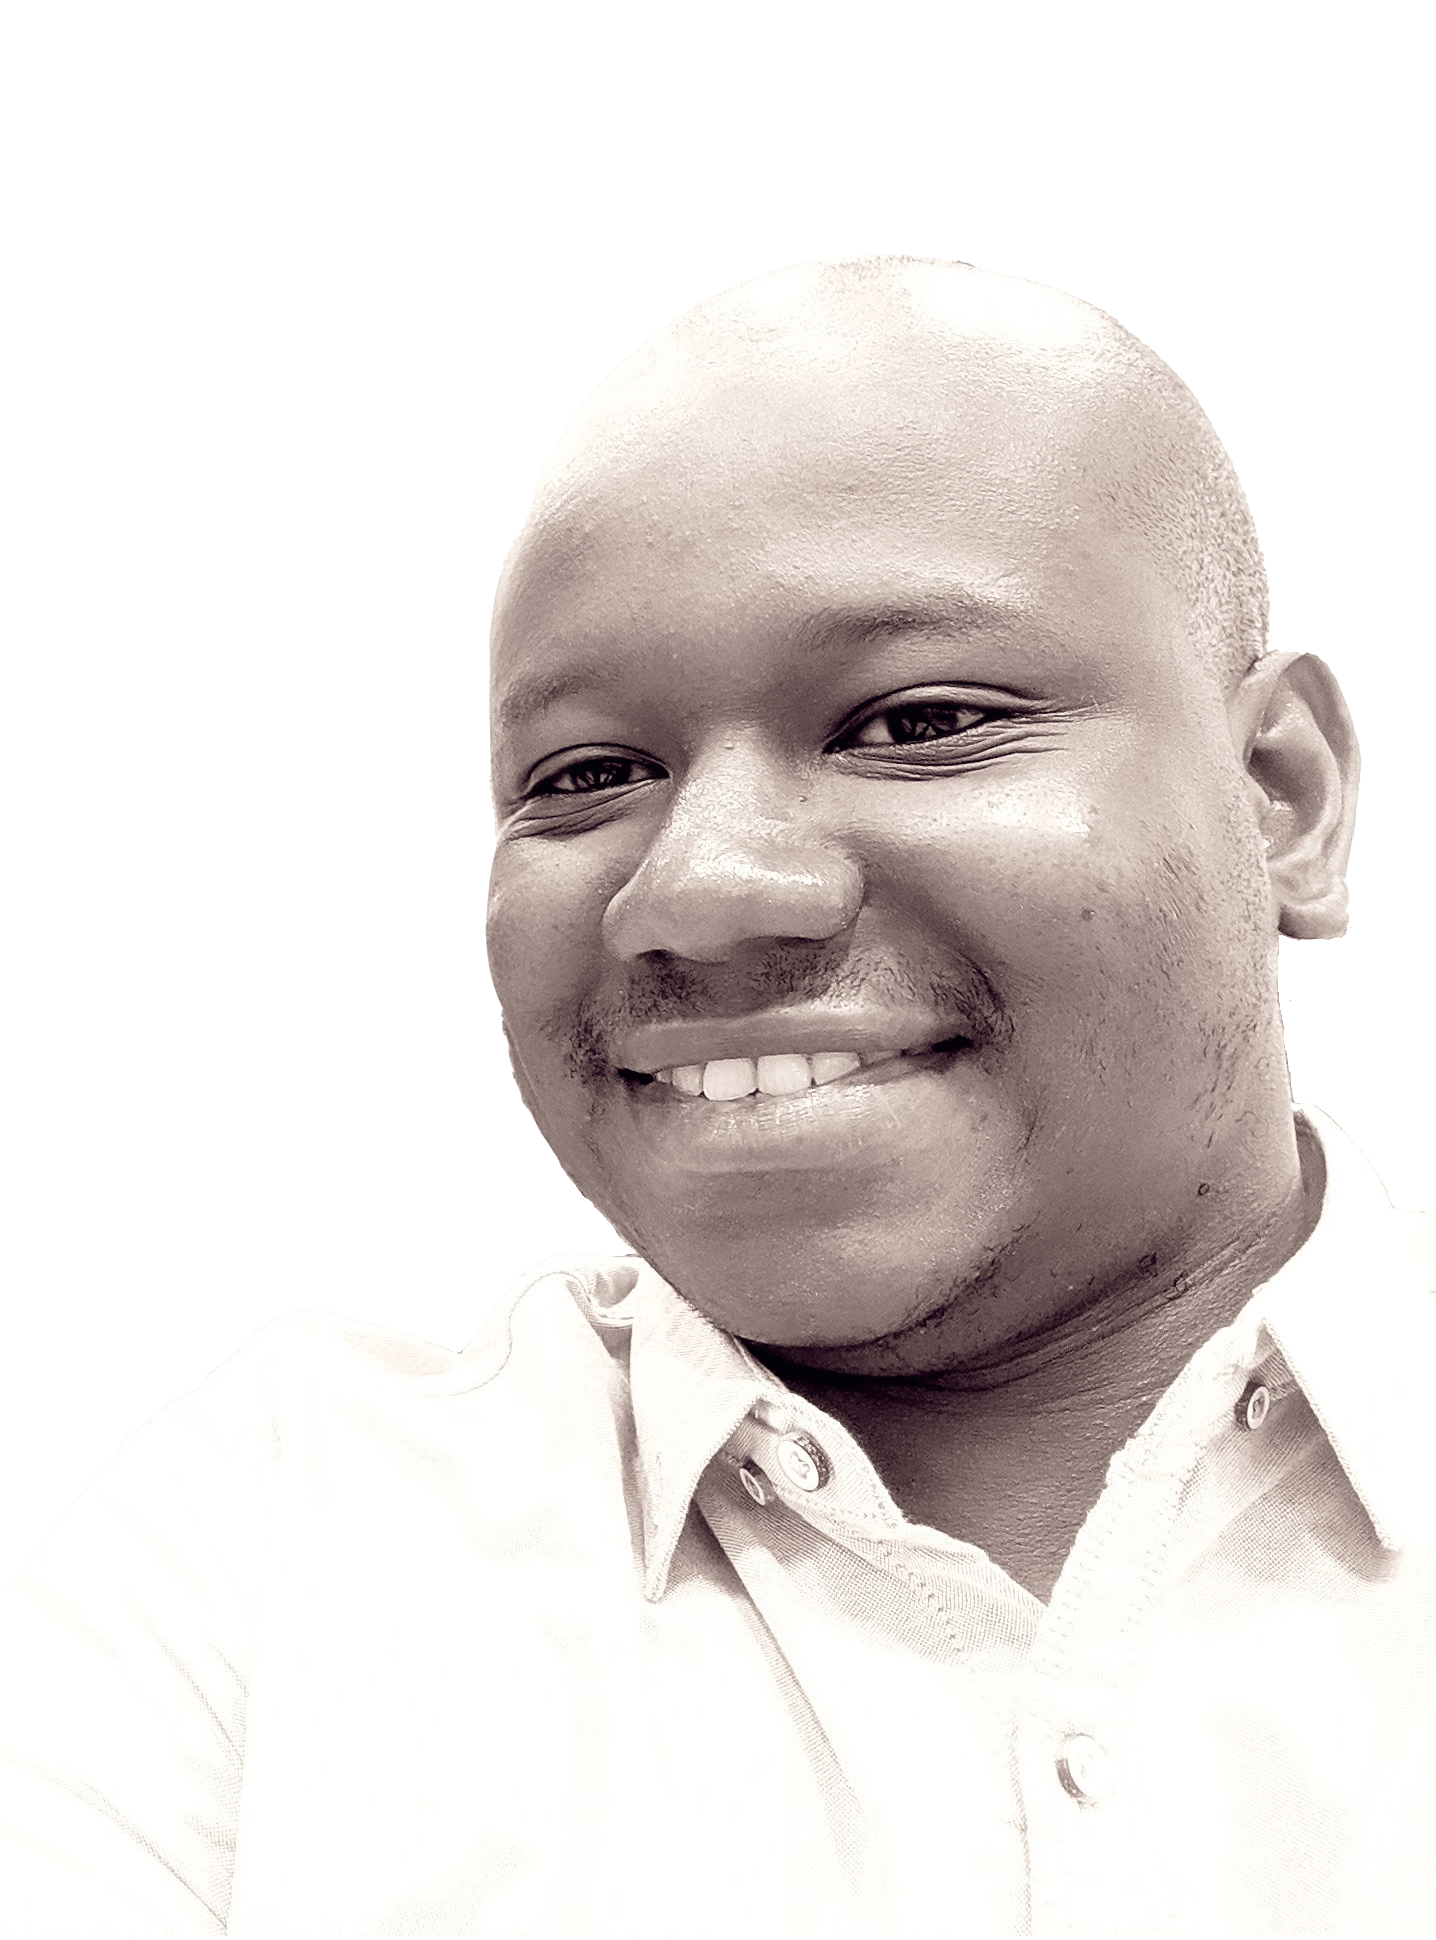
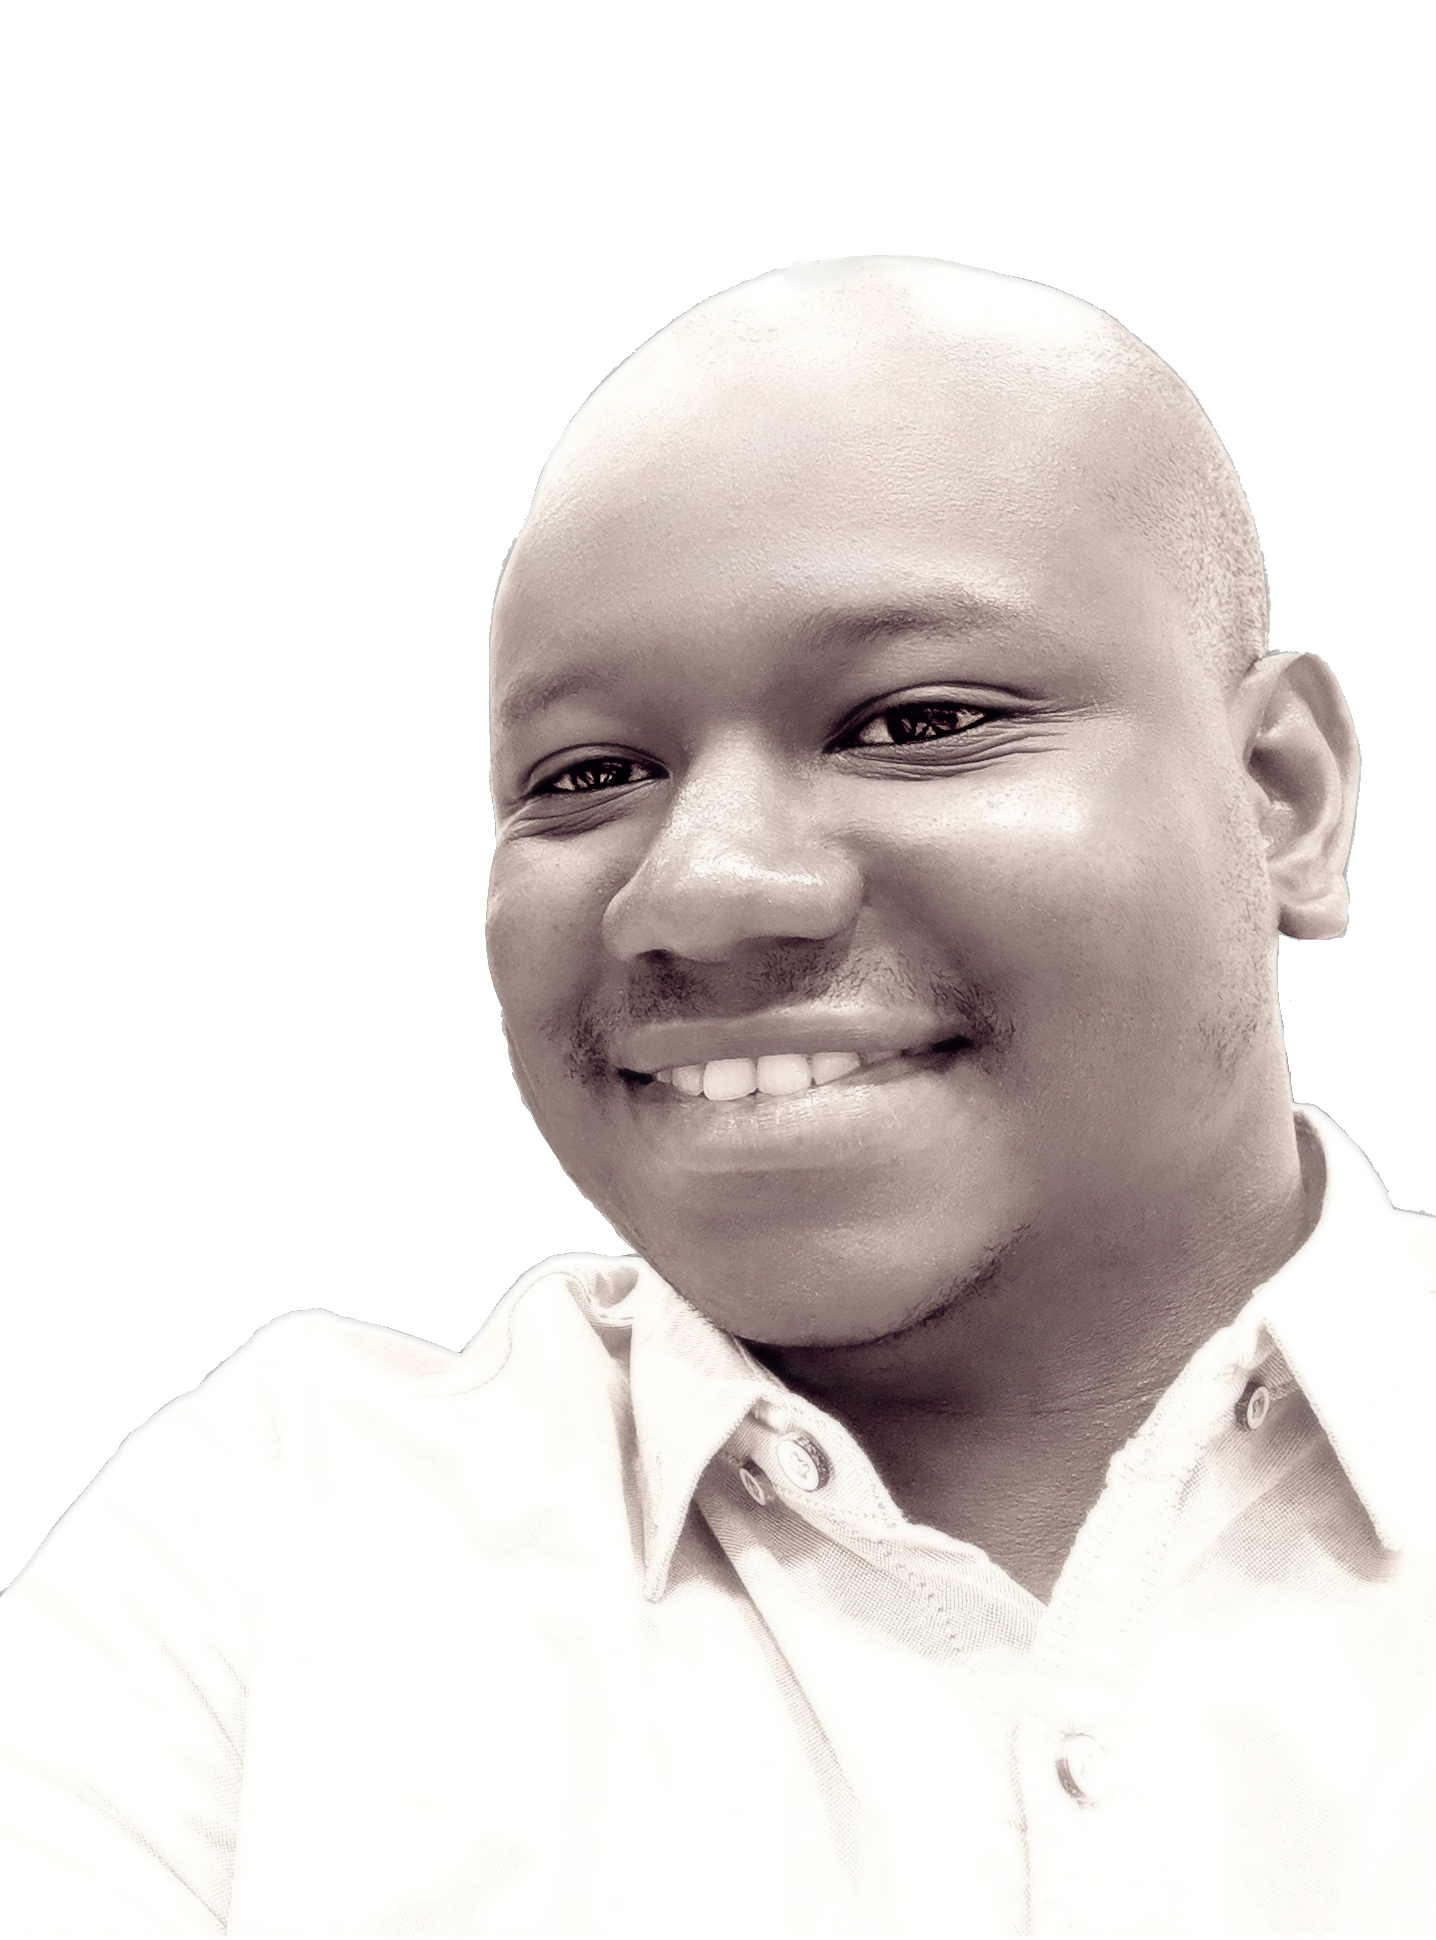
retoque de la imagen de giro

diff --git a/css/estilo.css b/css/estilo.css
@@ -30,6 +30,9 @@
 	content: "\e900";
 }
 
+html{
+	scroll-behavior: smooth;
+}
 
 body {
 	font-family: 'Source Sans Pro',sans-serif;
@@ -57,7 +60,7 @@ body {
 	list-style: none;
 	height: inherit;
 	display: flex;
-	flex-wrap: wrap;l
+	flex-wrap: wrap;
 }
 figure {
 	margin: 0;
@@ -494,11 +497,11 @@ Desktop first que empiese desde el MQ más grande */
 	}
 	
 	.header a {
-		margin: .8em 0;
+		margin: .3em 0;
 		height: 40px;
 		text-decoration: underline;
 		margin-bottom: .5em;
-		font-size: 2em;
+		font-size: .8em;
 		text-align: center;
 	}
 	.hero{
@@ -619,7 +622,7 @@ Desktop first que empiese desde el MQ más grande */
 		padding: .1em 0 .3em;
 	}
 	.header a{
-		margin: .2em 0;
+		margin: 2em 0;
 	}
 	.header figure{
 		margin-bottom: 0;

diff --git a/index.html b/index.html
@@ -43,8 +43,6 @@
       <div class="bienvenida">
         <h1> Hola! Soy <strong> Elan Fco. </strong><br/>Desarrollador  <strong>Web</strong> <br/>con pasión por la <strong>programación.</strong>
         </h1>
-        <a class="boton" href="#acerca-de-mi">Acerca de mi</a>
-        <a class="boton" href="#galeria-trabajo">Galería de Trabajo</a>
       </div>
       <img src="images/hero.png" width="600px" height="400px"alt="Imagen de hero">
     </div>
